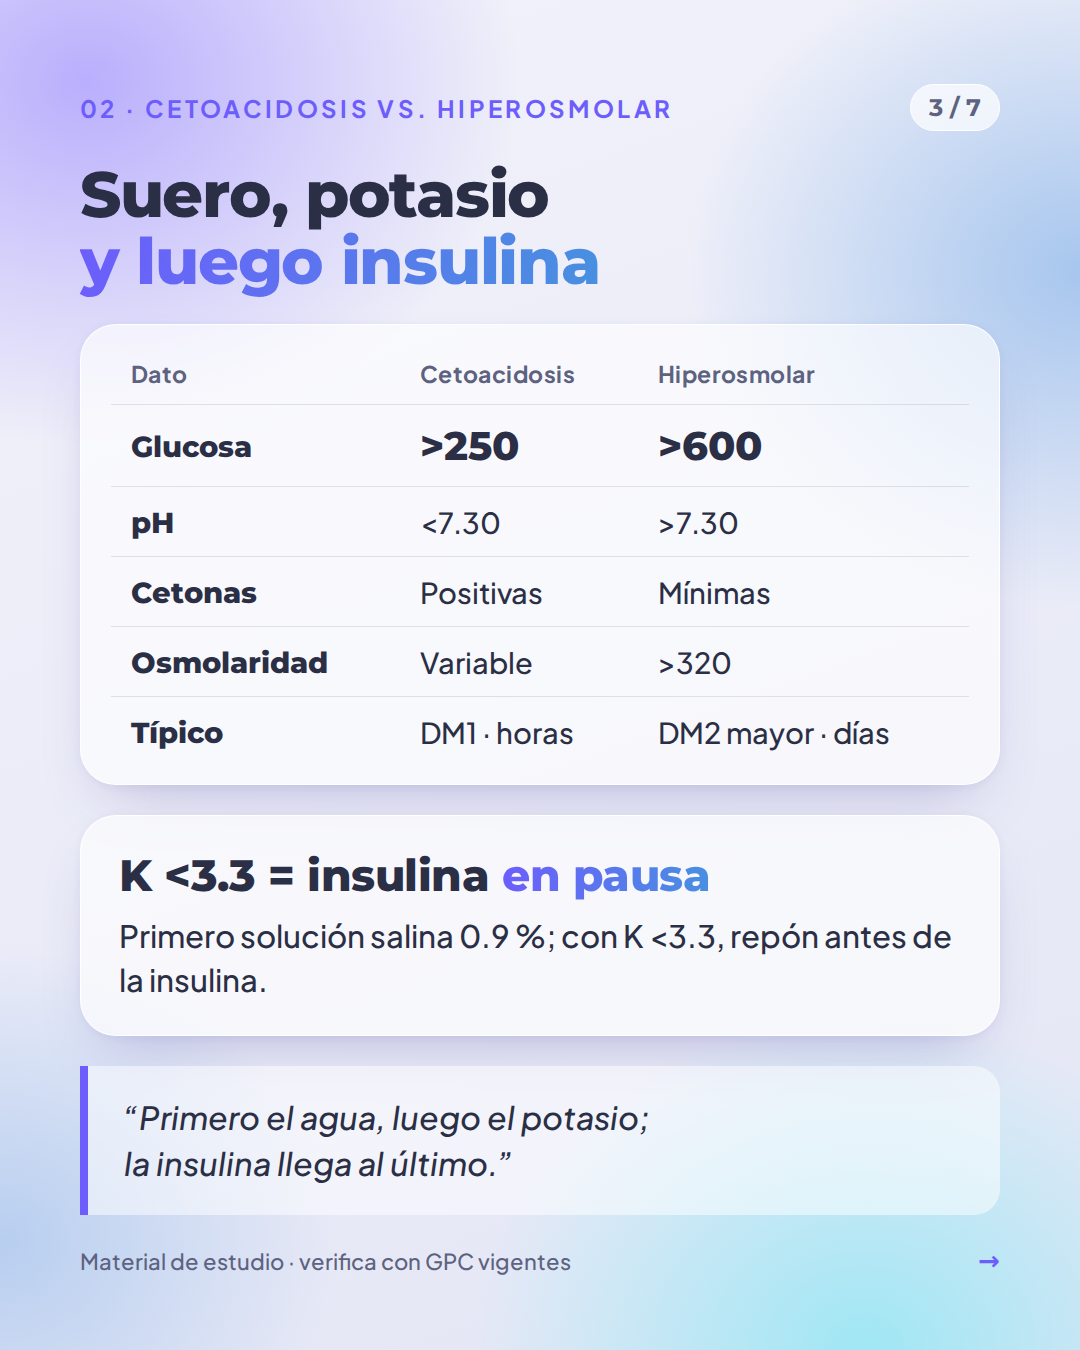
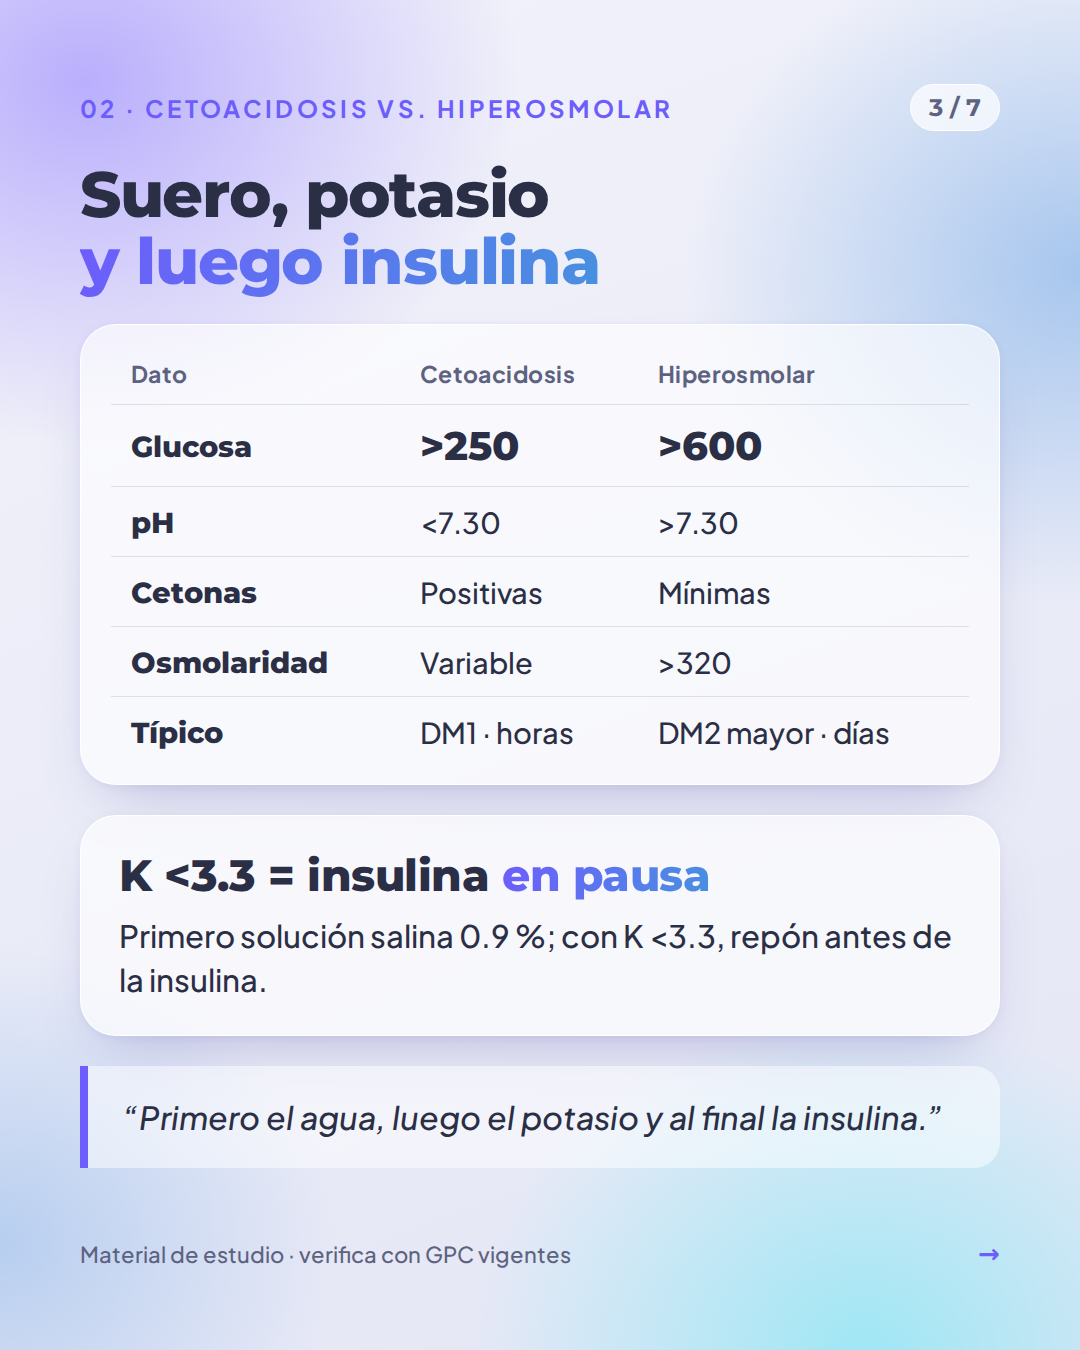
Avance de carruseles por especialidad (en revisión)
Claude-Session: https://claude.ai/code/session_01LmUnGmPhURMauYdyZM8ACw

Changed region(s): [[0.5806, 0.8089, 0.9472, 0.9022], [0.0611, 0.84, 0.4583, 0.9644], [0.275, 0.9022, 0.5194, 0.9644]]

diff --git a/book-to-skill/enarm/instagram/hematologia.html b/book-to-skill/enarm/instagram/hematologia.html
@@ -93,7 +93,7 @@ td b{font-family:var(--f-d);font-weight:800}
 <section class="slide"><div class="top"><span class="eyebrow">01 · Anemias por VCM</span><span class="num">2 / 7</span></div><h2>La microcítica<br><span class="g">tiene TICS</span></h2><div class="glass card acr"><b class="g">T</b><span>Talasemia (hierro normal, Mentzer &lt;13)</span><b class="g">I</b><span>Insuficiencia de hierro: ferropenia, la más común</span><b class="g">C</b><span>Crónica (enfermedad inflamatoria), a veces</span><b class="g">S</b><span>Sideroblástica: plomo, alcohol, isoniazida</span></div><div class="glass card "><p class="big" style="font-size:44px">Macro: <span class="g">B12</span> o folato</p><p>VCM &gt;100: déficit de B12 o folato. Solo la <b>B12</b> daña los nervios; dar folato solo corrige la anemia, pero no el daño neurológico.</p></div><div class="rima">“Menos de 80, micro; más de 100, macro.”</div><div class="foot"><span>Material de estudio · verifica con GPC vigentes</span><span class="swipe">→</span></div></section>
 <section class="slide"><div class="top"><span class="eyebrow">02 · Ferropenia vs. enfermedad crónica</span><span class="num">3 / 7</span></div><h2>Almacén vacío<br><span class="g">o almacén con candado</span></h2><div class="glass card" style="padding:18px 30px"><table><tr><th>Dato</th><th>Ferropénica</th><th>Crónica</th></tr><tr><td><b>Ferritina</b></td><td><span class="wk">Baja</span></td><td><span class="wk">Normal o alta</span></td></tr><tr><td><b>Transferrina</b></td><td>↑</td><td>↓</td></tr><tr><td><b>Hierro sérico</b></td><td>↓</td><td>↓</td></tr><tr><td><b>ADE</b></td><td>↑</td><td>Normal</td></tr></table></div><div class="glass card "><p class="big" style="font-size:44px">Ferritina = <span class="g">el almacén</span></p><p>Ferritina &lt;15 lo confirma (&lt;30 lo sugiere). Adulto mayor u hombre con ferropenia: busca sangrado digestivo con endoscopia y colonoscopia.</p></div><div class="rima">“En la ferropenia la bodega está vacía;<br>en la crónica está llena, pero la hepcidina la cierra.”</div><div class="foot"><span>Material de estudio · verifica con GPC vigentes</span><span class="swipe">→</span></div></section>
 <section class="slide"><div class="top"><span class="eyebrow">03 · PTI, PTT y CID</span><span class="num">4 / 7</span></div><h2 style="font-size:56px">La CID lo consume todo;<br><span class="g">la PTT tapa los vasos</span></h2><div class="glass card" style="padding:18px 30px"><table><tr><th></th><th>Clave</th><th>Tratamiento</th></tr><tr><td><b>PTI</b></td><td>Solo plaquetas bajas; tiempos normales</td><td>Esteroide · IgIV</td></tr><tr><td><b>PTT</b></td><td>Esquistocitos, fiebre, neuro, riñón; ADAMTS13 ↓</td><td><b>Recambio plasmático</b></td></tr><tr><td><b>CID</b></td><td>TP y TTPa ↑, fibrinógeno ↓, dímero D ↑</td><td>Tratar la causa</td></tr></table></div><div class="glass card "><p class="big" style="font-size:44px">Niño + virosis = <span class="g">PTI</span></p><p>Niño con petequias 2–3 semanas después de una infección viral y solo plaquetas bajas: PTI, que casi siempre se resuelve sola.</p></div><div class="rima">“A la PTT no le des plaquetas: dale plasma.”</div><div class="foot"><span>Material de estudio · verifica con GPC vigentes</span><span class="swipe">→</span></div></section>
-<section class="slide"><div class="top"><span class="eyebrow">04 · Leucemias por edad</span><span class="num">5 / 7</span></div><h2 style="font-size:58px">La LLA va al kínder;<br><span class="g">la LLC, al asilo</span></h2><div class="glass card" style="padding:18px 30px"><table><tr><th>Leucemia</th><th>Edad</th><th>Pista</th></tr><tr><td><b>LLA</b></td><td>2–5 años</td><td>La más común en niños</td></tr><tr><td><b>LMA</b></td><td>Adultos</td><td>Bastones de Auer</td></tr><tr><td><b>LMC</b></td><td>40–60 años</td><td>Filadelfia t(9;22) → imatinib</td></tr><tr><td><b>LLC</b></td><td>&gt;60 años</td><td>Linfocitosis y sombras de Gumprecht</td></tr></table></div><div class="glass card "><p class="big" style="font-size:44px">M3 = <span class="g">CID</span></p><p>Promielocítica (M3): t(15;17), alto riesgo de CID. Tratamiento: ácido transretinoico (ATRA).</p></div><div class="rima">“Auer, mieloide aguda; Filadelfia, mieloide crónica.”</div><div class="foot"><span>Material de estudio · verifica con GPC vigentes</span><span class="swipe">→</span></div></section>
+<section class="slide"><div class="top"><span class="eyebrow">04 · Leucemias por edad</span><span class="num">5 / 7</span></div><h2 style="font-size:58px">La LLA va al kínder;<br><span class="g">la LLC, al asilo</span></h2><div class="glass card" style="padding:18px 30px"><table><tr><th>Leucemia</th><th>Edad</th><th>Pista</th></tr><tr><td><b>LLA</b></td><td><span style="white-space:nowrap">2–5 años</span></td><td>La más común en niños</td></tr><tr><td><b>LMA</b></td><td>Adultos</td><td>Bastones de Auer</td></tr><tr><td><b>LMC</b></td><td><span style="white-space:nowrap">40–60 años</span></td><td>Filadelfia t(9;22) → imatinib</td></tr><tr><td><b>LLC</b></td><td>&gt;60 años</td><td>Linfocitosis y sombras de Gumprecht</td></tr></table></div><div class="glass card "><p class="big" style="font-size:44px">M3 = <span class="g">CID</span></p><p>Promielocítica (M3): t(15;17), alto riesgo de CID. Tratamiento: ácido transretinoico (ATRA).</p></div><div class="rima">“Auer, mieloide aguda; Filadelfia, mieloide crónica.”</div><div class="foot"><span>Material de estudio · verifica con GPC vigentes</span><span class="swipe">→</span></div></section>
 <section class="slide"><div class="top"><span class="eyebrow">05 · Anticoagulantes y antídotos</span><span class="num">6 / 7</span></div><h2 style="font-size:60px">Heparina: protamina;<br><span class="g">warfarina: vitamina</span></h2><div class="glass card" style="padding:18px 30px"><table><tr><th>Fármaco</th><th>Vigilar</th><th>Antídoto</th></tr><tr><td><b>Heparina</b></td><td>TTPa</td><td>Protamina</td></tr><tr><td><b>Enoxaparina</b></td><td>Anti-Xa</td><td>Protamina (parcial)</td></tr><tr><td><b>Warfarina</b></td><td>INR</td><td>Vitamina K + CCP</td></tr><tr><td><b>Dabigatrán</b></td><td>—</td><td>Idarucizumab</td></tr><tr><td><b>Rivaroxabán, apixabán</b></td><td>—</td><td>Andexanet o CCP</td></tr></table></div><div class="rima">“Heparina, TTPa, protamina;<br>warfarina, INR, vitamina.”<br>INR meta 2–3 · CCP = concentrado de complejo protrombínico.</div><div class="foot"><span>Material de estudio · verifica con GPC vigentes</span><span class="swipe">→</span></div></section>
 <section class="slide"><div class="top"><span class="eyebrow">Resumen · Hematología</span><span class="num">7 / 7</span></div><h2>Las 5 frases<br><span class="g">para el examen</span></h2><div class="glass card" style="padding:18px 30px"><table><tr><td><b>Anemias por VCM</b></td><td>La microcítica tiene TICS</td></tr><tr><td><b>Ferropenia vs. enfermedad crónica</b></td><td>Almacén vacío o almacén con candado</td></tr><tr><td><b>PTI, PTT y CID</b></td><td>A la PTT no le des plaquetas: dale plasma</td></tr><tr><td><b>Leucemias por edad</b></td><td>La LLA va al kínder; la LLC, al asilo</td></tr><tr><td><b>Anticoagulantes y antídotos</b></td><td>Heparina, protamina; warfarina, vitamina</td></tr></table></div><div style="margin-top:auto;display:grid;gap:22px"><span class="pill">Guarda · Comparte con tu grupo de estudio</span><p class="muted" style="font-size:24px">Material de estudio, no sustituye las GPC vigentes ni el juicio clínico.</p></div></section>
 </body>

diff --git a/book-to-skill/enarm/instagram/neumologia.html b/book-to-skill/enarm/instagram/neumologia.html
@@ -90,7 +90,7 @@ td b{font-family:var(--f-d);font-weight:800}
 
 
 
-<section class="slide"><div class="top"><span class="eyebrow">01 · Asma: escalones GINA</span><span class="num">2 / 7</span></div><h2>Salbutamol solo,<br><span class="g">nunca solo</span></h2><div class="glass card" style="padding:18px 30px"><table><tr><th>Escalón</th><th>Vía preferida (GINA)</th></tr><tr><td><span class="wk">1–2</span></td><td>Budesonida-formoterol <b>a demanda</b></td></tr><tr><td><span class="wk">3</span></td><td>Dosis baja diaria + rescate con el mismo inhalador</td></tr><tr><td><span class="wk">4</span></td><td>Dosis media de mantenimiento y rescate</td></tr><tr><td><span class="wk">5</span></td><td>+ Tiotropio; fenotipar y valorar biológico</td></tr></table></div><div class="glass card "><p class="big" style="font-size:44px">Tórax <span class="g">silencioso</span> = alarma</p><p>Crisis: salbutamol repetido + esteroide sistémico + O₂ (SatO₂ 93–95 %). Sin sibilancias ni entrada de aire: paro inminente.</p></div><div class="rima">“Salbutamol sin esteroide:<br>rescate sin control.”</div><div class="foot"><span>Material de estudio · verifica con GPC vigentes</span><span class="swipe">→</span></div></section>
+<section class="slide"><div class="top"><span class="eyebrow">01 · Asma: escalones GINA</span><span class="num">2 / 7</span></div><h2>Salbutamol solo,<br><span class="g">nunca solo</span></h2><div class="glass card" style="padding:18px 30px"><table><tr><th>Escalón</th><th>Vía preferida (GINA)</th></tr><tr><td><span class="wk">1–2</span></td><td>Budesonida-formoterol <b>a demanda</b></td></tr><tr><td><span class="wk">3</span></td><td>Dosis baja diaria + rescate con el mismo inhalador</td></tr><tr><td><span class="wk">4</span></td><td>Dosis media de mantenimiento y rescate</td></tr><tr><td><span class="wk">5</span></td><td>+ Tiotropio; fenotipar y valorar biológico</td></tr></table></div><div class="glass card "><p class="big" style="font-size:44px">Tórax <span class="g">silencioso</span> = alarma</p><p>Crisis: salbutamol + esteroide sistémico + O₂ (<span style="white-space:nowrap">SatO₂ 93–95 %</span>). Sin sibilancias ni aire: paro inminente.</p></div><div class="rima">“Salbutamol sin esteroide: rescate sin control.”</div><div class="foot"><span>Material de estudio · verifica con GPC vigentes</span><span class="swipe">→</span></div></section>
 <section class="slide"><div class="top"><span class="eyebrow">02 · EPOC: GOLD</span><span class="num">3 / 7</span></div><h2 style="font-size:60px">Setenta que no revierte<br><span class="g">es EPOC</span></h2><div class="glass card" style="padding:18px 30px"><table><tr><th>GOLD</th><th>FEV₁ (% del predicho)</th></tr><tr><td><b>1</b> · leve</td><td><span class="wk">≥80 %</span></td></tr><tr><td><b>2</b> · moderada</td><td><span class="wk">50–79 %</span></td></tr><tr><td><b>3</b> · grave</td><td><span class="wk">30–49 %</span></td></tr><tr><td><b>4</b> · muy grave</td><td><span class="wk">&lt;30 %</span></td></tr></table></div><div class="glass card "><p class="big" style="font-size:44px">La <span class="g">E</span> es de Exacerbador</p><p>Diagnóstico: FEV₁/FVC &lt;0.70 tras broncodilatador. Grupos B y E: LABA + LAMA.</p></div><div class="rima">“Cinco-cinco u ocho-ocho: oxígeno ≥15 h al día.”<br>PaO₂ ≤55 mmHg o SatO₂ ≤88 %.</div><div class="foot"><span>Material de estudio · verifica con GPC vigentes</span><span class="swipe">→</span></div></section>
 <section class="slide"><div class="top"><span class="eyebrow">03 · Tromboembolia pulmonar</span><span class="num">4 / 7</span></div><h2>Dímero D<br><span class="g">Descarta, no confirma</span></h2><div class="glass card" style="padding:18px 30px"><table><tr><th>Wells</th><th>Siguiente paso</th></tr><tr><td><b>≤4</b> · poco probable</td><td>Dímero D: si es negativo, se descarta</td></tr><tr><td><b>&gt;4</b> · probable</td><td><b>AngioTAC</b> directa</td></tr><tr><td><b>Con choque</b></td><td>Ecocardiograma y <b>trombólisis</b></td></tr></table></div><div class="glass card "><p class="big" style="font-size:44px">Taquicardia, no <span class="g">S1Q3T3</span></p><p>En el ECG lo más frecuente es la taquicardia sinusal; el S1Q3T3 es clásico, pero raro. Estable: anticoagula.</p></div><div class="rima">“Poco probable, pide el dímero;<br>probable, directo a la tomografía.”</div><div class="foot"><span>Material de estudio · verifica con GPC vigentes</span><span class="swipe">→</span></div></section>
 <section class="slide"><div class="top"><span class="eyebrow">04 · Neumonía: CURB-65</span><span class="num">5 / 7</span></div><h2>CURB-65:<br><span class="g">cada letra, un punto</span></h2><div class="glass card acr"><b class="g">C</b><span>Confusión</span><b class="g">U</b><span>Urea &gt;42 mg/dL (BUN &gt;19)</span><b class="g">R</b><span>Respiración ≥30 por minuto</span><b class="g">B</b><span>Baja presión: PAS &lt;90 o PAD ≤60</span><b class="g">65</b><span>Edad ≥65 años</span></div><div class="glass card "><p class="big" style="font-size:44px">El culpable: <span class="g">neumococo</span></p><p>Ambulatorio sin comorbilidad: amoxicilina o macrólido. Hospitalizado: betalactámico + macrólido o quinolona respiratoria.</p></div><div class="rima">“Cero-uno, a casa; dos, a la cama;<br>tres o más, grave: piensa en terapia.”</div><div class="foot"><span>Material de estudio · verifica con GPC vigentes</span><span class="swipe">→</span></div></section>

diff --git a/book-to-skill/enarm/instagram/contenido/hematologia.py b/book-to-skill/enarm/instagram/contenido/hematologia.py
@@ -38,9 +38,9 @@ ESPECIALIDADES = {
             ("Leucemias por edad", "La LLA va al kínder; la LLC, al asilo", [
                 h2("La LLA va al kínder;", "la LLC, al asilo", 58),
                 tabla(["Leucemia", "Edad", "Pista"], [
-                    ["<b>LLA</b>", "2–5 años", "La más común en niños"],
+                    ["<b>LLA</b>", '<span style="white-space:nowrap">2–5 años</span>', "La más común en niños"],
                     ["<b>LMA</b>", "Adultos", "Bastones de Auer"],
-                    ["<b>LMC</b>", "40–60 años", "Filadelfia t(9;22) → imatinib"],
+                    ["<b>LMC</b>", '<span style="white-space:nowrap">40–60 años</span>', "Filadelfia t(9;22) → imatinib"],
                     ["<b>LLC</b>", "&gt;60 años", "Linfocitosis y sombras de Gumprecht"]]),
                 card("Promielocítica (M3): t(15;17), alto riesgo de CID. Tratamiento: ácido transretinoico (ATRA).",
                      big='M3 = <span class="g">CID</span>'),

diff --git a/book-to-skill/enarm/instagram/contenido/neumologia.py b/book-to-skill/enarm/instagram/contenido/neumologia.py
@@ -11,7 +11,7 @@ ESPECIALIDADES = {
                     ['<span class="wk">3</span>', "Dosis baja diaria + rescate con el mismo inhalador"],
                     ['<span class="wk">4</span>', "Dosis media de mantenimiento y rescate"],
                     ['<span class="wk">5</span>', "+ Tiotropio; fenotipar y valorar biológico"]]),
-                card("Crisis: salbutamol + esteroide sistémico + O₂ (SatO₂ 93–95 %). Sin sibilancias ni aire: paro inminente.",
+                card("Crisis: salbutamol + esteroide sistémico + O₂ (<span style=\"white-space:nowrap\">SatO₂ 93–95 %</span>). Sin sibilancias ni aire: paro inminente.",
                      big='Tórax <span class="g">silencioso</span> = alarma'),
                 rima("“Salbutamol sin esteroide: rescate sin control.”"),
             ]),
